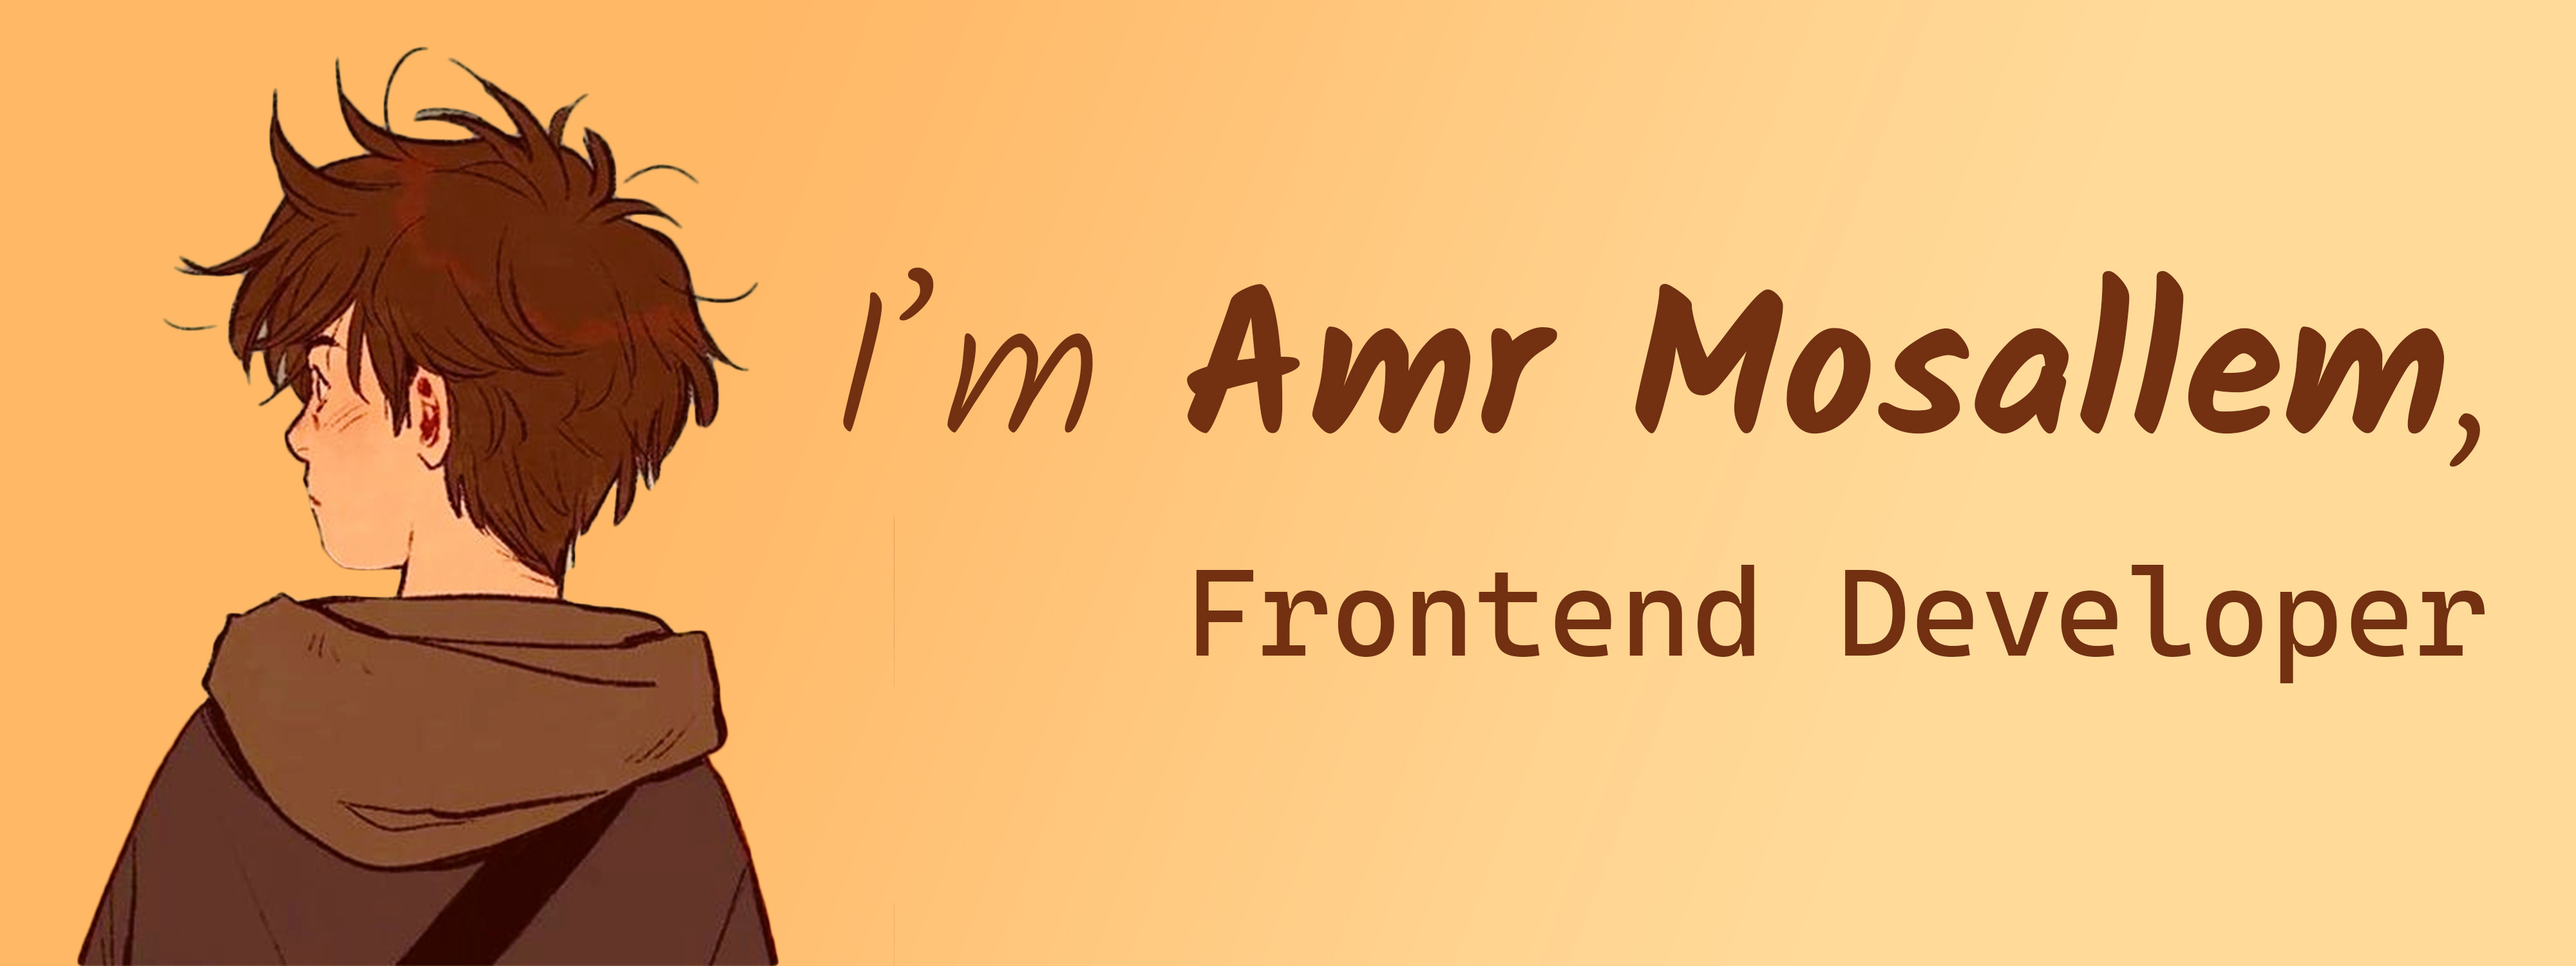
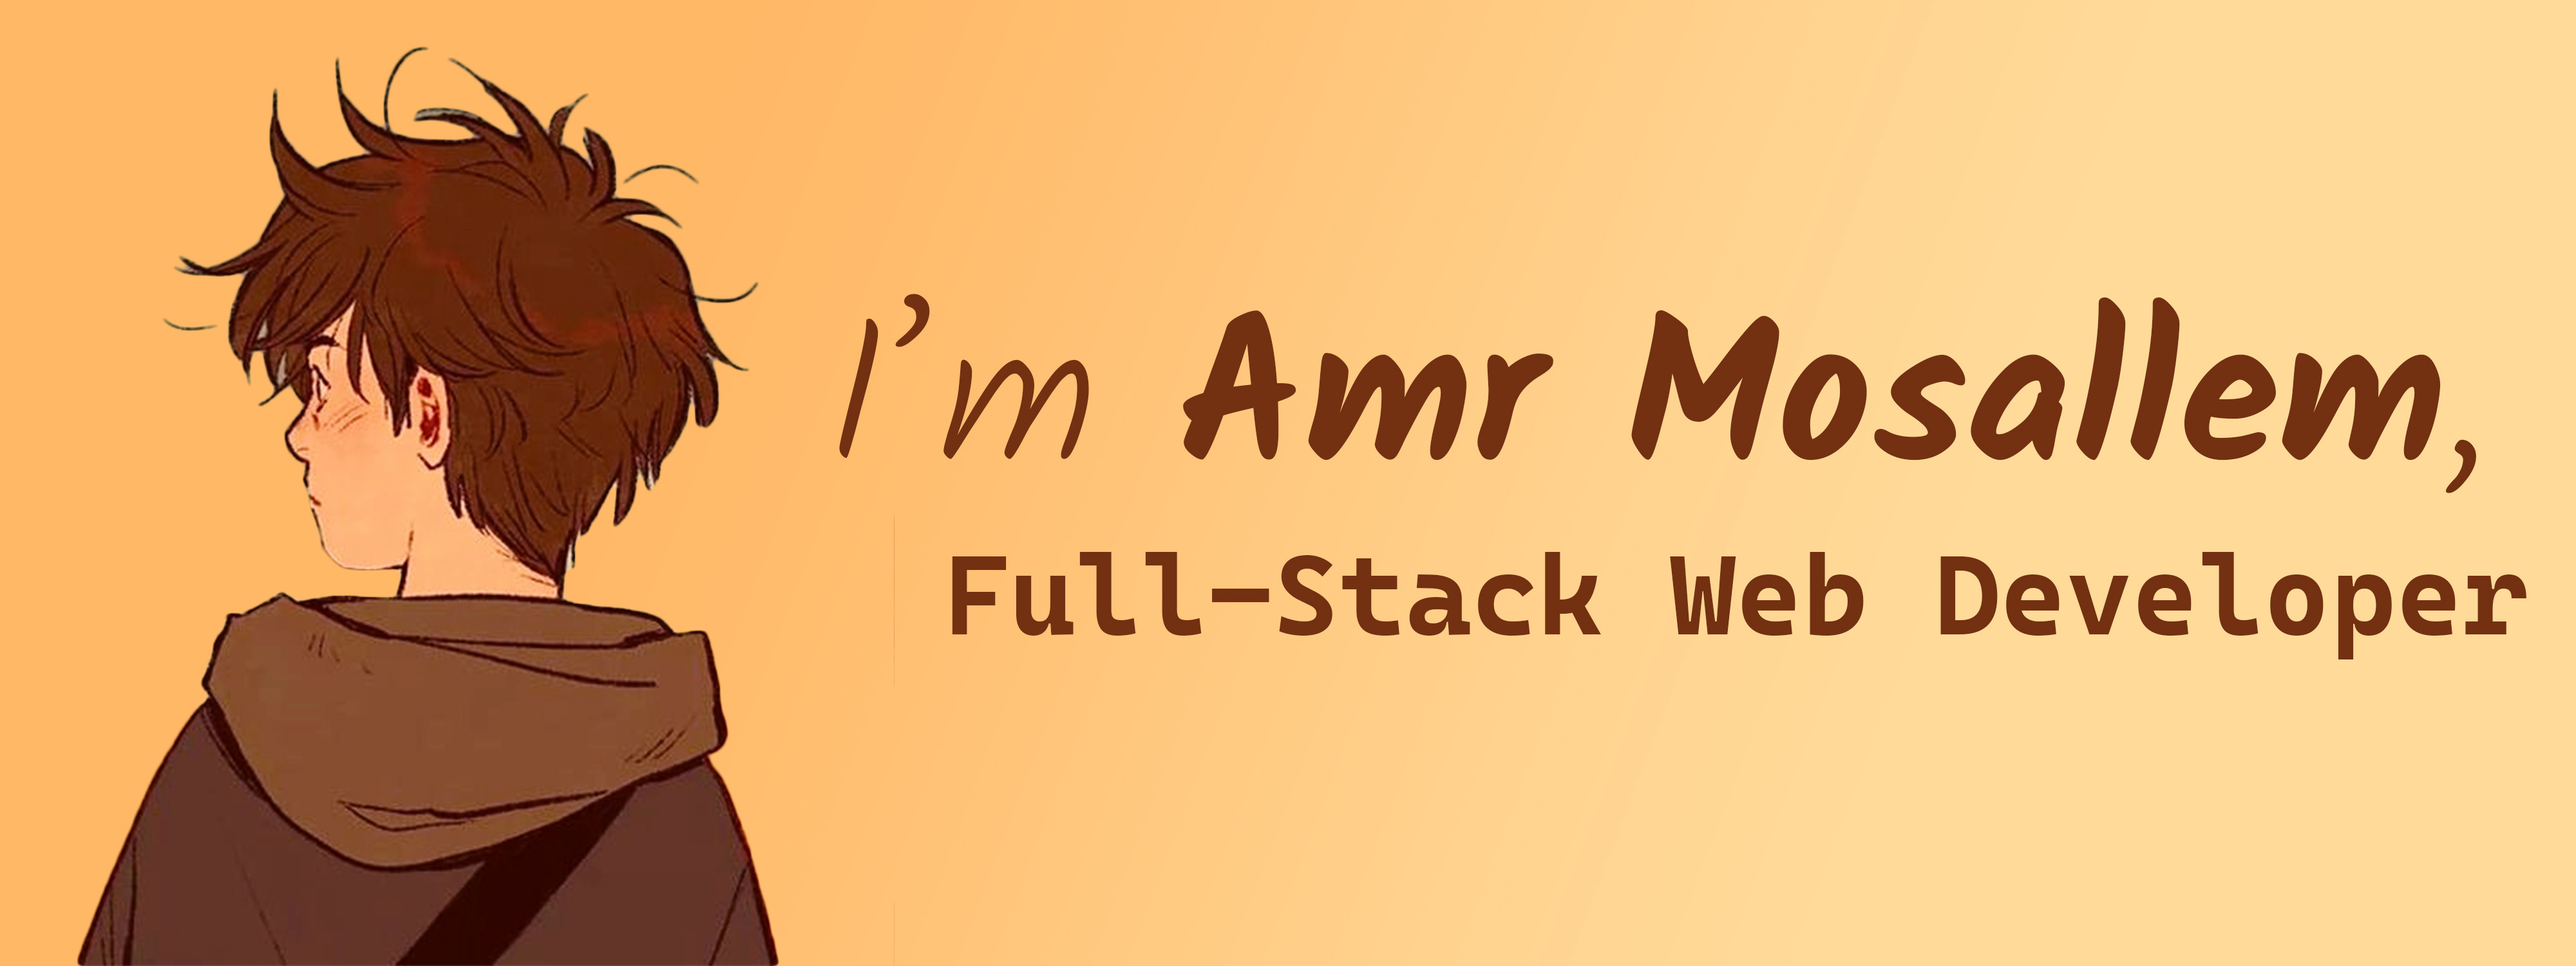
Full-stack

Changed region(s): [[0.3125, 0.276, 0.9688, 0.4907], [0.3438, 0.552, 1.0, 0.7053], [0.8125, 0.276, 0.8438, 0.3373]]

diff --git a/README.md b/README.md
@@ -1,5 +1,4 @@
-<img src="images/banner RAMADAN.jpg"/>
-
+<img src="images/banner.jpg"/>
 
 <p align="left"> <a href="https://github.com/ryo-ma/github-profile-trophy"><img src="https://github-profile-trophy.vercel.app/?username=amrmosallem" alt="amrmosallem" /></a> </p>
 
@@ -7,56 +6,61 @@
 
 I'm passionate about building modern, user-friendly interfaces with a focus on creativity, quality, and problem-solving. My goal is to become a **Full-Stack Developer** with strong expertise in **Machine Learning** for impactful solutions.
 
-
 ## 🚀 **Skills & Expertise**
-### Frontend Development  
+
+### Frontend Development
+
+<a href="https://nextjs.org/" target="_blank" rel="noreferrer"> <img src="https://cdn.worldvectorlogo.com/logos/nextjs-2.svg" alt="nextjs" width="40" height="40"/> </a>
 <a href="https://reactjs.org/" target="_blank" rel="noreferrer"> <img src="https://raw.githubusercontent.com/devicons/devicon/master/icons/react/react-original-wordmark.svg" alt="react" width="40" height="40"/> </a> <a href="https://www.typescriptlang.org/" target="_blank" rel="noreferrer"> <img src="https://raw.githubusercontent.com/devicons/devicon/master/icons/typescript/typescript-original.svg" alt="typescript" width="40" height="40"/> </a>
 <a href="https://tailwindcss.com/" target="_blank" rel="noreferrer"> <img src="https://www.vectorlogo.zone/logos/tailwindcss/tailwindcss-icon.svg" alt="tailwind" width="40" height="40"/> </a>
- <a href="https://developer.mozilla.org/en-US/docs/Web/JavaScript" target="_blank" rel="noreferrer"> <img src="https://raw.githubusercontent.com/devicons/devicon/master/icons/javascript/javascript-original.svg" alt="javascript" width="40" height="40"/> </a>
+<a href="https://developer.mozilla.org/en-US/docs/Web/JavaScript" target="_blank" rel="noreferrer"> <img src="https://raw.githubusercontent.com/devicons/devicon/master/icons/javascript/javascript-original.svg" alt="javascript" width="40" height="40"/> </a>
 <a href="https://www.w3schools.com/css/" target="_blank" rel="noreferrer"> <img src="https://raw.githubusercontent.com/devicons/devicon/master/icons/css3/css3-original-wordmark.svg" alt="css3" width="40" height="40"/> </a> <a href="https://www.w3.org/html/" target="_blank" rel="noreferrer"> <img src="https://raw.githubusercontent.com/devicons/devicon/master/icons/html5/html5-original-wordmark.svg" alt="html5" width="40" height="40"/> </a>
 
 ### Machine Learning & Data Analysis
 
 <a href="https://www.python.org" target="_blank" rel="noreferrer"> <img src="https://raw.githubusercontent.com/devicons/devicon/master/icons/python/python-original.svg" alt="python" width="40" height="40"/> </a>
-<a href="https://www.chartjs.org" target="_blank" rel="noreferrer"> <img src="https://www.chartjs.org/media/logo-title.svg" alt="chartjs" width="40" height="40"/> </a> <a href="https://pandas.pydata.org/" target="_blank" rel="noreferrer"> <img src="https://raw.githubusercontent.com/devicons/devicon/2ae2a900d2f041da66e950e4d48052658d850630/icons/pandas/pandas-original.svg" alt="pandas" width="40" height="40"/> </a>  <a href="https://pytorch.org/" target="_blank" rel="noreferrer"> <img src="https://www.vectorlogo.zone/logos/pytorch/pytorch-icon.svg" alt="pytorch" width="40" height="40"/> </a>  <a href="https://scikit-learn.org/" target="_blank" rel="noreferrer"> <img src="https://upload.wikimedia.org/wikipedia/commons/0/05/Scikit_learn_logo_small.svg" alt="scikit_learn" width="40" height="40"/> </a> <a href="https://seaborn.pydata.org/" target="_blank" rel="noreferrer"> <img src="https://seaborn.pydata.org/_images/logo-mark-lightbg.svg" alt="seaborn" width="40" height="40"/> </a>  <a href="https://www.tensorflow.org" target="_blank" rel="noreferrer"> <img src="https://www.vectorlogo.zone/logos/tensorflow/tensorflow-icon.svg" alt="tensorflow" width="40" height="40"/> </a> 
+<a href="https://www.chartjs.org" target="_blank" rel="noreferrer"> <img src="https://www.chartjs.org/media/logo-title.svg" alt="chartjs" width="40" height="40"/> </a> <a href="https://pandas.pydata.org/" target="_blank" rel="noreferrer"> <img src="https://raw.githubusercontent.com/devicons/devicon/2ae2a900d2f041da66e950e4d48052658d850630/icons/pandas/pandas-original.svg" alt="pandas" width="40" height="40"/> </a> <a href="https://pytorch.org/" target="_blank" rel="noreferrer"> <img src="https://www.vectorlogo.zone/logos/pytorch/pytorch-icon.svg" alt="pytorch" width="40" height="40"/> </a> <a href="https://scikit-learn.org/" target="_blank" rel="noreferrer"> <img src="https://upload.wikimedia.org/wikipedia/commons/0/05/Scikit_learn_logo_small.svg" alt="scikit_learn" width="40" height="40"/> </a> <a href="https://seaborn.pydata.org/" target="_blank" rel="noreferrer"> <img src="https://seaborn.pydata.org/_images/logo-mark-lightbg.svg" alt="seaborn" width="40" height="40"/> </a> <a href="https://www.tensorflow.org" target="_blank" rel="noreferrer"> <img src="https://www.vectorlogo.zone/logos/tensorflow/tensorflow-icon.svg" alt="tensorflow" width="40" height="40"/> </a>
 
 ### Other Programming Languages
- <a href="https://www.w3schools.com/cpp/" target="_blank" rel="noreferrer"> <img src="https://raw.githubusercontent.com/devicons/devicon/master/icons/cplusplus/cplusplus-original.svg" alt="cplusplus" width="40" height="40"/> </a> <a href="https://www.w3schools.com/cs/" target="_blank" rel="noreferrer"> <img src="https://raw.githubusercontent.com/devicons/devicon/master/icons/csharp/csharp-original.svg" alt="csharp" width="40" height="40"/> </a>  <a href="https://www.java.com" target="_blank" rel="noreferrer"> <img src="https://raw.githubusercontent.com/devicons/devicon/master/icons/java/java-original.svg" alt="java" width="40" height="40"/> </a> 
+
+<a href="https://www.w3schools.com/cpp/" target="_blank" rel="noreferrer"> <img src="https://raw.githubusercontent.com/devicons/devicon/master/icons/cplusplus/cplusplus-original.svg" alt="cplusplus" width="40" height="40"/> </a> <a href="https://www.w3schools.com/cs/" target="_blank" rel="noreferrer"> <img src="https://raw.githubusercontent.com/devicons/devicon/master/icons/csharp/csharp-original.svg" alt="csharp" width="40" height="40"/> </a> <a href="https://www.java.com" target="_blank" rel="noreferrer"> <img src="https://raw.githubusercontent.com/devicons/devicon/master/icons/java/java-original.svg" alt="java" width="40" height="40"/> </a>
 
 <br/>
 
 ---
 
+## 🛠 **Projects**
 
-## 🛠 **Projects**  
+### **Simulation Analysis Tool**
 
-### **Simulation Analysis Tool**  
-- A system simulation tool with seamless user input, data processing, and Excel integration.  
+- A system simulation tool with seamless user input, data processing, and Excel integration.
 - **Technologies**: React, Chart JS, Excel JS. <img src="images/simulation.png" align="center" width="75%%"/>
 
-### **Customer Retention Analysis Tool**  
-- Machine learning project to analyze and reduce churn for telecom services.  
+### **Customer Retention Analysis Tool**
+
+- Machine learning project to analyze and reduce churn for telecom services.
 - **Technologies**: Python, scikit-learn, Pandas <img src="images/ml.jpg" align="center" width="75%%"/>
 
+### **Message Platform (Discord Equivalent)**
 
-### **Message Platform (Discord Equivalent)**  
-- A real-time messaging app with responsive design and smooth user experience.  
-- **Technologies**: CSS, JavaScript, Firebase <img src="images/discord.png" align="center" width="75%"/> 
-
+- A real-time messaging app with responsive design and smooth user experience.
+- **Technologies**: CSS, JavaScript, Firebase <img src="images/discord.png" align="center" width="75%"/>
 
 ## 📈 **GitHub Stats**
+
 ![Amr's GitHub stats](https://github-readme-stats.vercel.app/api?username=amrmosallem&show_icons=true&theme=moltack)
 ![Top Languages](https://github-readme-stats.vercel.app/api/top-langs/?username=amrmosallem&layout=compact&theme=moltack)
 
-## 🌟 **Goals**  
-- Master backend technologies and become a **Full-Stack Developer**.  
-- Leverage **Machine Learning** for real-world applications.  
+## 🌟 **Goals**
+
+- Master backend technologies and become a **Full-Stack Developer**.
+- Leverage **Machine Learning** for real-world applications.
 - Build impactful web applications that merge functionality with aesthetics.
 
 ---
 
-## 📫 **Connect with Me**  
+## 📫 **Connect with Me**
+
 💼 [LinkedIn](https://www.linkedin.com/in/amr-mosallem-0540b9314/)  
 🌐 [Portfolio](https://effulgent-crisp-9fc1c2.netlify.app/)  
 📧 [Email](amromsllam@gmail.com)
-
